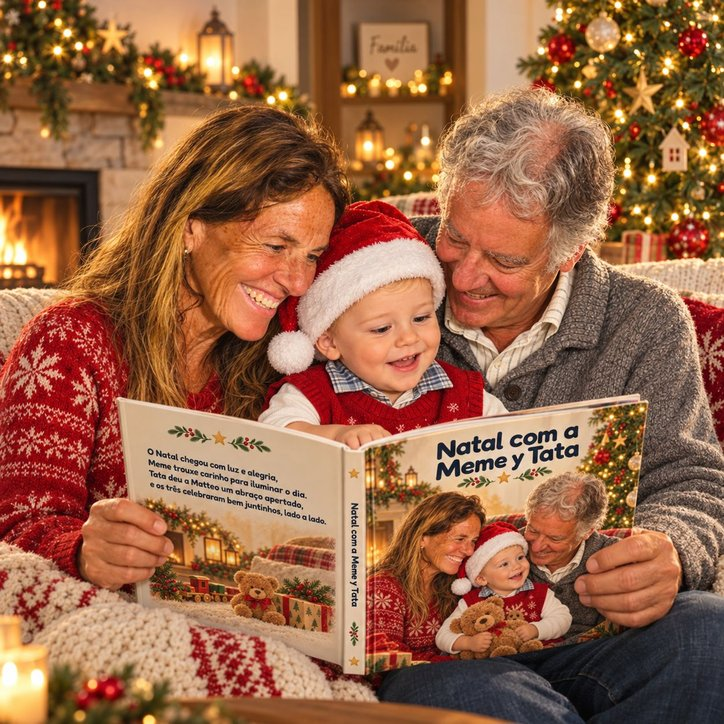
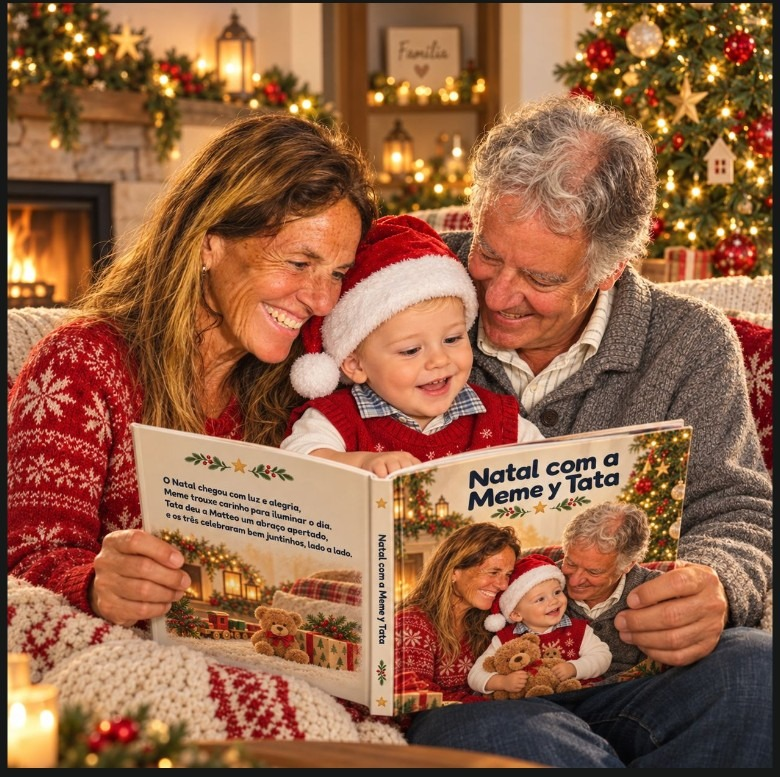
fix(landing): show the Portuguese Christmas series and size each flipbook photo.
Wide pages keep their own proportion, carousel covers lose the white ring, and catalog covers no longer draw a spine bar.

diff --git a/apps/web/src/landing.css b/apps/web/src/landing.css
@@ -378,9 +378,8 @@ button.hero-slide {
   cursor: pointer;
 }
 button.hero-slide:hover:not(:disabled) { transform: none; box-shadow: none; }
-.hero-slide.on img {
+.hero-slide.on .hero-slide-frame {
   box-shadow:
-    0 0 0 3px #fff,
     0 0 18px rgba(244,183,64,.72),
     0 12px 28px rgba(0,0,0,.32);
 }
@@ -388,20 +387,27 @@ button.hero-slide:hover:not(:disabled) { transform: none; box-shadow: none; }
   display: block;
   height: 100%;
   line-height: 0;
+  box-sizing: border-box;
+  border: 3px solid var(--yellow);
+  border-radius: 12px;
+  overflow: hidden;
+  background: var(--yellow);
+  box-shadow:
+    0 0 18px rgba(244,183,64,.32),
+    0 12px 28px rgba(0,0,0,.32);
 }
 .hero-slide-frame img {
   display: block;
   height: 100%;
   width: auto;
-  object-fit: contain;
+  object-fit: cover;
   object-position: center center;
   box-sizing: border-box;
-  border: 3px solid var(--yellow);
-  border-radius: 12px;
+  border: 0;
+  border-radius: 0;
   background: transparent;
-  box-shadow:
-    0 0 18px rgba(244,183,64,.32),
-    0 12px 28px rgba(0,0,0,.32);
+  box-shadow: none;
+  transform: scale(1.04);
 }
 .khero-flipbook {
   width: 100%;
@@ -409,15 +415,19 @@ button.hero-slide:hover:not(:disabled) { transform: none; box-shadow: none; }
   justify-content: center;
   margin-top: 6px;
 }
+.khero-flipbook .flipbook { width: 100%; max-width: 100%; }
 .khero-flipbook .fb-stage {
-  width: min(560px, calc(100vw - 8rem));
+  width: auto;
+  height: auto;
   max-width: 100%;
-  aspect-ratio: 4 / 3;
+  aspect-ratio: auto;
   background: transparent;
   overflow: hidden;
 }
 .khero-flipbook .fb-page,
 .khero-flipbook img.fb-page {
+  width: 100%;
+  height: 100%;
   object-fit: contain;
   object-position: center center;
   background: transparent;
@@ -473,7 +483,7 @@ button.hero-slide:hover:not(:disabled) { transform: none; box-shadow: none; }
   object-position: center;
   filter: none;
 }
-/* Todos os livros do catálogo no mesmo tamanho, com a brochura à esquerda. */
+/* Todos os livros do catálogo no mesmo tamanho, sem a barra da brochura. */
 #catalogo .cat-display {
   display: flex;
   align-items: flex-end;
@@ -487,29 +497,8 @@ button.hero-slide:hover:not(:disabled) { transform: none; box-shadow: none; }
   inset: auto;
   width: var(--face);
   height: auto;
-  margin-left: calc(var(--face) * 0.075);
   overflow: visible;
   filter: drop-shadow(0 12px 14px rgba(0,0,0,.34));
-}
-#catalogo .cat-book::before {
-  content: "";
-  position: absolute;
-  z-index: 1;
-  top: 0;
-  bottom: 0;
-  left: 0;
-  width: 7.5%;
-  transform: translateX(-100%);
-  border-radius: 3px 0 0 3px;
-  background: linear-gradient(
-    90deg,
-    #10182c 0%,
-    #2a3a60 36%,
-    #f4f0e6 47%,
-    #f4f0e6 53%,
-    #243356 62%,
-    #121a30 100%
-  );
 }
 #catalogo .cat-book img {
   position: relative;
@@ -520,7 +509,7 @@ button.hero-slide:hover:not(:disabled) { transform: none; box-shadow: none; }
   aspect-ratio: 1;
   object-fit: cover;
   object-position: center;
-  border-radius: 0 8px 8px 0;
+  border-radius: 8px;
 }
 .kbh-frame {
   position: relative; width: min(400px, 70vw, calc(50dvh * 3 / 4)); border-radius: 14px 6px 6px 14px;

diff --git a/apps/web/src/Landing.tsx b/apps/web/src/Landing.tsx
@@ -49,9 +49,9 @@ const heroAsset = (pt: string, en = pt, es = en): HeroAsset => ({ pt, en, es });
 const HERO_STRIP: { name: string; cover: HeroAsset; page: HeroAsset; photo: HeroAsset }[] = [
   {
     name: "Meme e Tata",
-    cover: heroAsset("capa-natalmemetata-en.jpg", "capa-natalmemetata-en.jpg", "capa-natalmemetata-es.jpg"),
-    page: heroAsset("pagina-natalmemetata-en.jpg", "pagina-natalmemetata-en.jpg", "pagina-natalmemetata-es.jpg"),
-    photo: heroAsset("foto-natalmemetata-en.jpg", "foto-natalmemetata-en.jpg", "foto-natalmemetata-es.jpg"),
+    cover: heroAsset("capa-natalmemetata.jpg", "capa-natalmemetata-en.jpg", "capa-natalmemetata-es.jpg"),
+    page: heroAsset("pagina-natalmemetata.jpg", "pagina-natalmemetata-en.jpg", "pagina-natalmemetata-es.jpg"),
+    photo: heroAsset("foto-natalmemetata.jpg", "foto-natalmemetata-en.jpg", "foto-natalmemetata-es.jpg"),
   },
   {
     name: "Nano",
@@ -941,7 +941,31 @@ function FlipBook({
 }) {
   const [anim, setAnim] = useState<"next" | "prev" | null>(null);
   const [target, setTarget] = useState(index);
+  const [frame, setFrame] = useState<{ w: number; h: number } | null>(null);
   const busy = useRef(false);
+  const pageSrc = pages[index];
+  useEffect(() => {
+    const img = new Image();
+    let alive = true;
+    const apply = () => {
+      if (!alive || !img.naturalWidth || !img.naturalHeight) return;
+      const maxW = Math.max(240, Math.min(img.naturalWidth, window.innerWidth - 160));
+      const maxH = Math.max(180, Math.min(img.naturalHeight, window.innerHeight * 0.72));
+      const scale = Math.min(maxW / img.naturalWidth, maxH / img.naturalHeight);
+      setFrame({
+        w: Math.round(img.naturalWidth * scale),
+        h: Math.round(img.naturalHeight * scale),
+      });
+    };
+    img.onload = apply;
+    img.src = exUrl(pageSrc);
+    if (img.complete) apply();
+    window.addEventListener("resize", apply);
+    return () => {
+      alive = false;
+      window.removeEventListener("resize", apply);
+    };
+  }, [pageSrc]);
   const flip = (dir: "next" | "prev") => {
     if (busy.current || pages.length < 2) return;
     const t = dir === "next" ? index + 1 : index - 1;
@@ -985,7 +1009,15 @@ function FlipBook({
   return (
     <div className="flipbook">
       <button className="fb-nav" type="button" onClick={() => flip("prev")} disabled={index === 0 || !!anim} aria-label={labels.prev}>‹</button>
-      <div className="fb-stage" onClick={onStage} onKeyDown={onStageKey} role="button" tabIndex={0} aria-label={labels.turn}>
+      <div
+        className="fb-stage"
+        onClick={onStage}
+        onKeyDown={onStageKey}
+        role="button"
+        tabIndex={0}
+        aria-label={labels.turn}
+        style={frame ? { width: frame.w, height: "auto", aspectRatio: `${frame.w} / ${frame.h}`, maxWidth: "100%" } : undefined}
+      >
         <span className="fb-spine" />
         <img className={`fb-page fb-under ${pageKind(underIdx)}`} src={exUrl(underSrc)} alt="" aria-hidden />
         <div className={`fb-leaf${anim ? ` ${anim}` : ""}`}>

diff --git a/apps/web/src/Landing.test.tsx b/apps/web/src/Landing.test.tsx
@@ -319,23 +319,23 @@ describe("Landing — menu mobile e abas do hero", () => {
     renderLanding();
 
     const cover = await screen.findByTestId("landing-hero-slide-0");
-    expect(cover).toHaveAttribute("src", expect.stringContaining("capa-natalmemetata-en.jpg"));
+    expect(cover).toHaveAttribute("src", expect.stringContaining("capa-natalmemetata.jpg"));
     expect(screen.getByTestId("landing-hero-slide-1")).toHaveAttribute("src", expect.stringContaining("capa-nanoaventuras.jpg"));
 
     const carousel = cover.closest(".hero-carousel") as HTMLElement;
     const carouselSrcs = [...carousel.querySelectorAll("img")].map((img) => img.getAttribute("src") ?? "");
     expect(carouselSrcs.every((src) => /\/capa-/.test(src))).toBe(true);
-    const natalCovers = carouselSrcs.filter((src) => src.includes("capa-natalmemetata-en.jpg"));
+    const natalCovers = carouselSrcs.filter((src) => src.includes("capa-natalmemetata.jpg") && !src.includes("capa-natalmemetata-e"));
     expect(natalCovers).toHaveLength(2);
-    expect(screen.getByTestId("landing-hero-flip")).toHaveAttribute("src", expect.stringContaining("capa-natalmemetata-en.jpg"));
+    expect(screen.getByTestId("landing-hero-flip")).toHaveAttribute("src", expect.stringContaining("capa-natalmemetata.jpg"));
 
     await user.click(screen.getByRole("button", { name: /próxima página/i }));
     await waitFor(() => {
-      expect(screen.getByTestId("landing-hero-flip")).toHaveAttribute("src", expect.stringContaining("pagina-natalmemetata-en.jpg"));
+      expect(screen.getByTestId("landing-hero-flip")).toHaveAttribute("src", expect.stringContaining("pagina-natalmemetata.jpg"));
     });
     await user.click(screen.getByRole("button", { name: /próxima página/i }));
     await waitFor(() => {
-      expect(screen.getByTestId("landing-hero-flip")).toHaveAttribute("src", expect.stringContaining("foto-natalmemetata-en.jpg"));
+      expect(screen.getByTestId("landing-hero-flip")).toHaveAttribute("src", expect.stringContaining("foto-natalmemetata.jpg"));
     });
 
     await user.click(screen.getByTestId("landing-hero-pick-1"));
